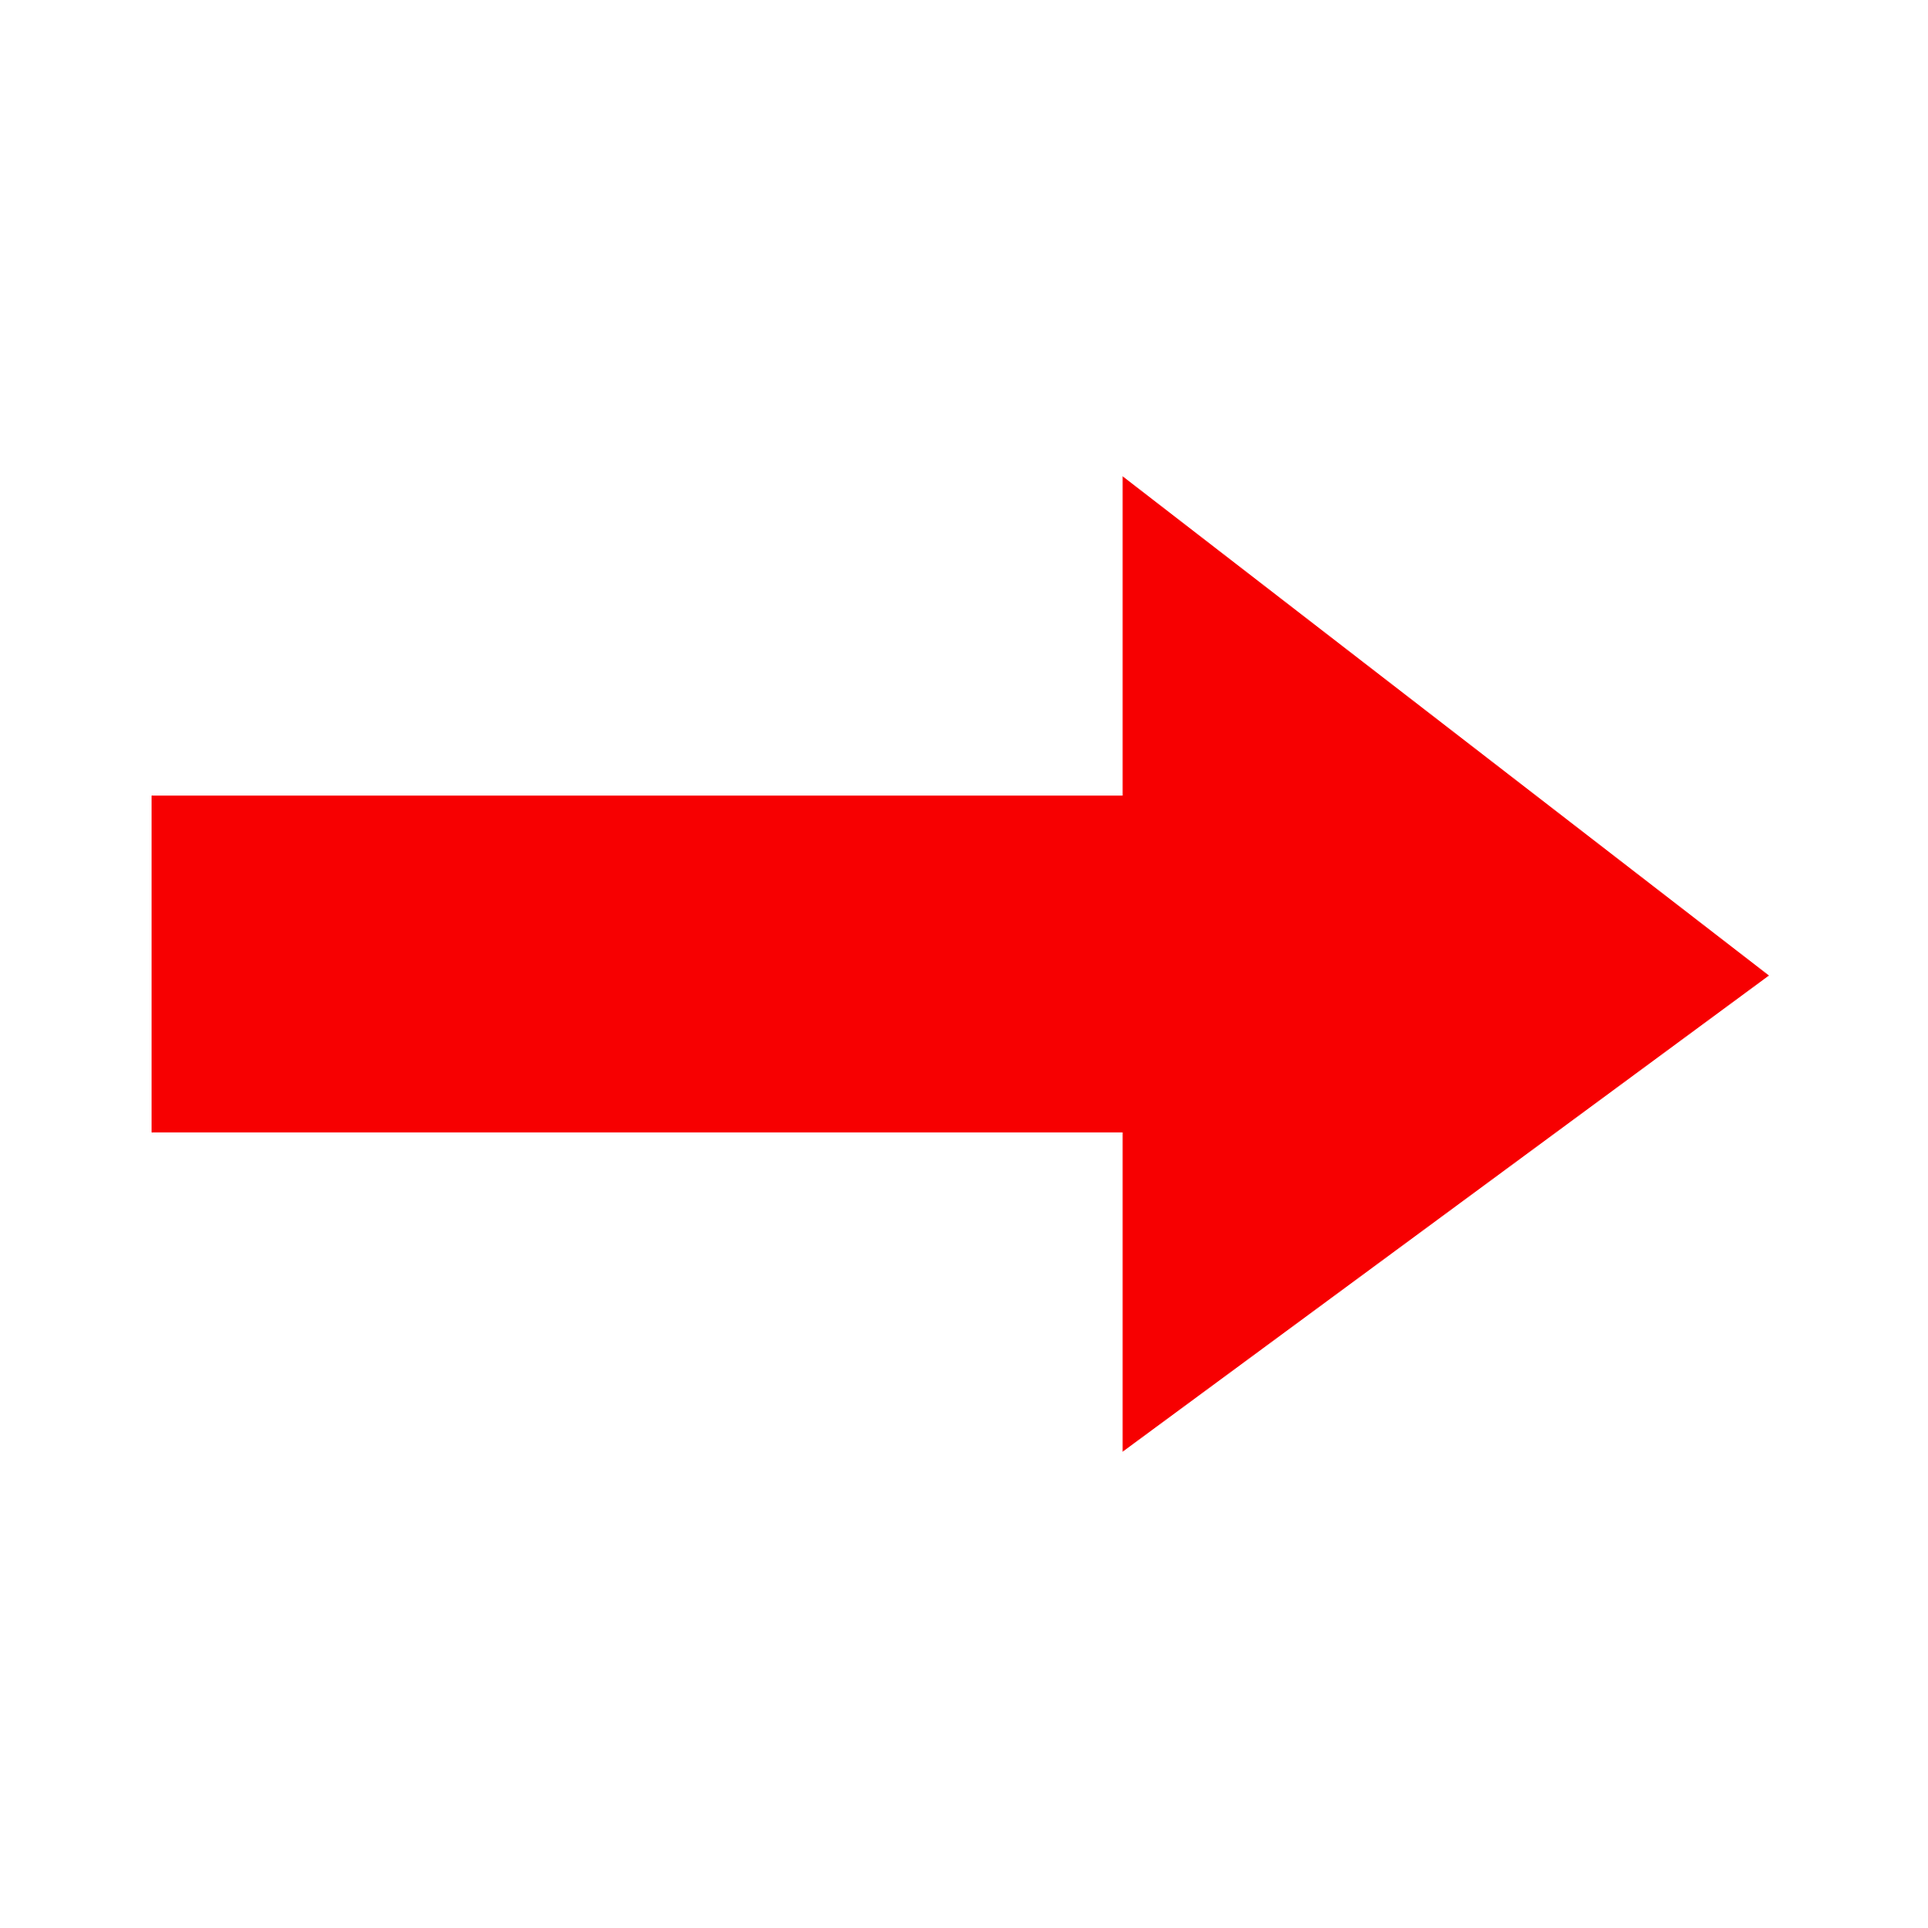
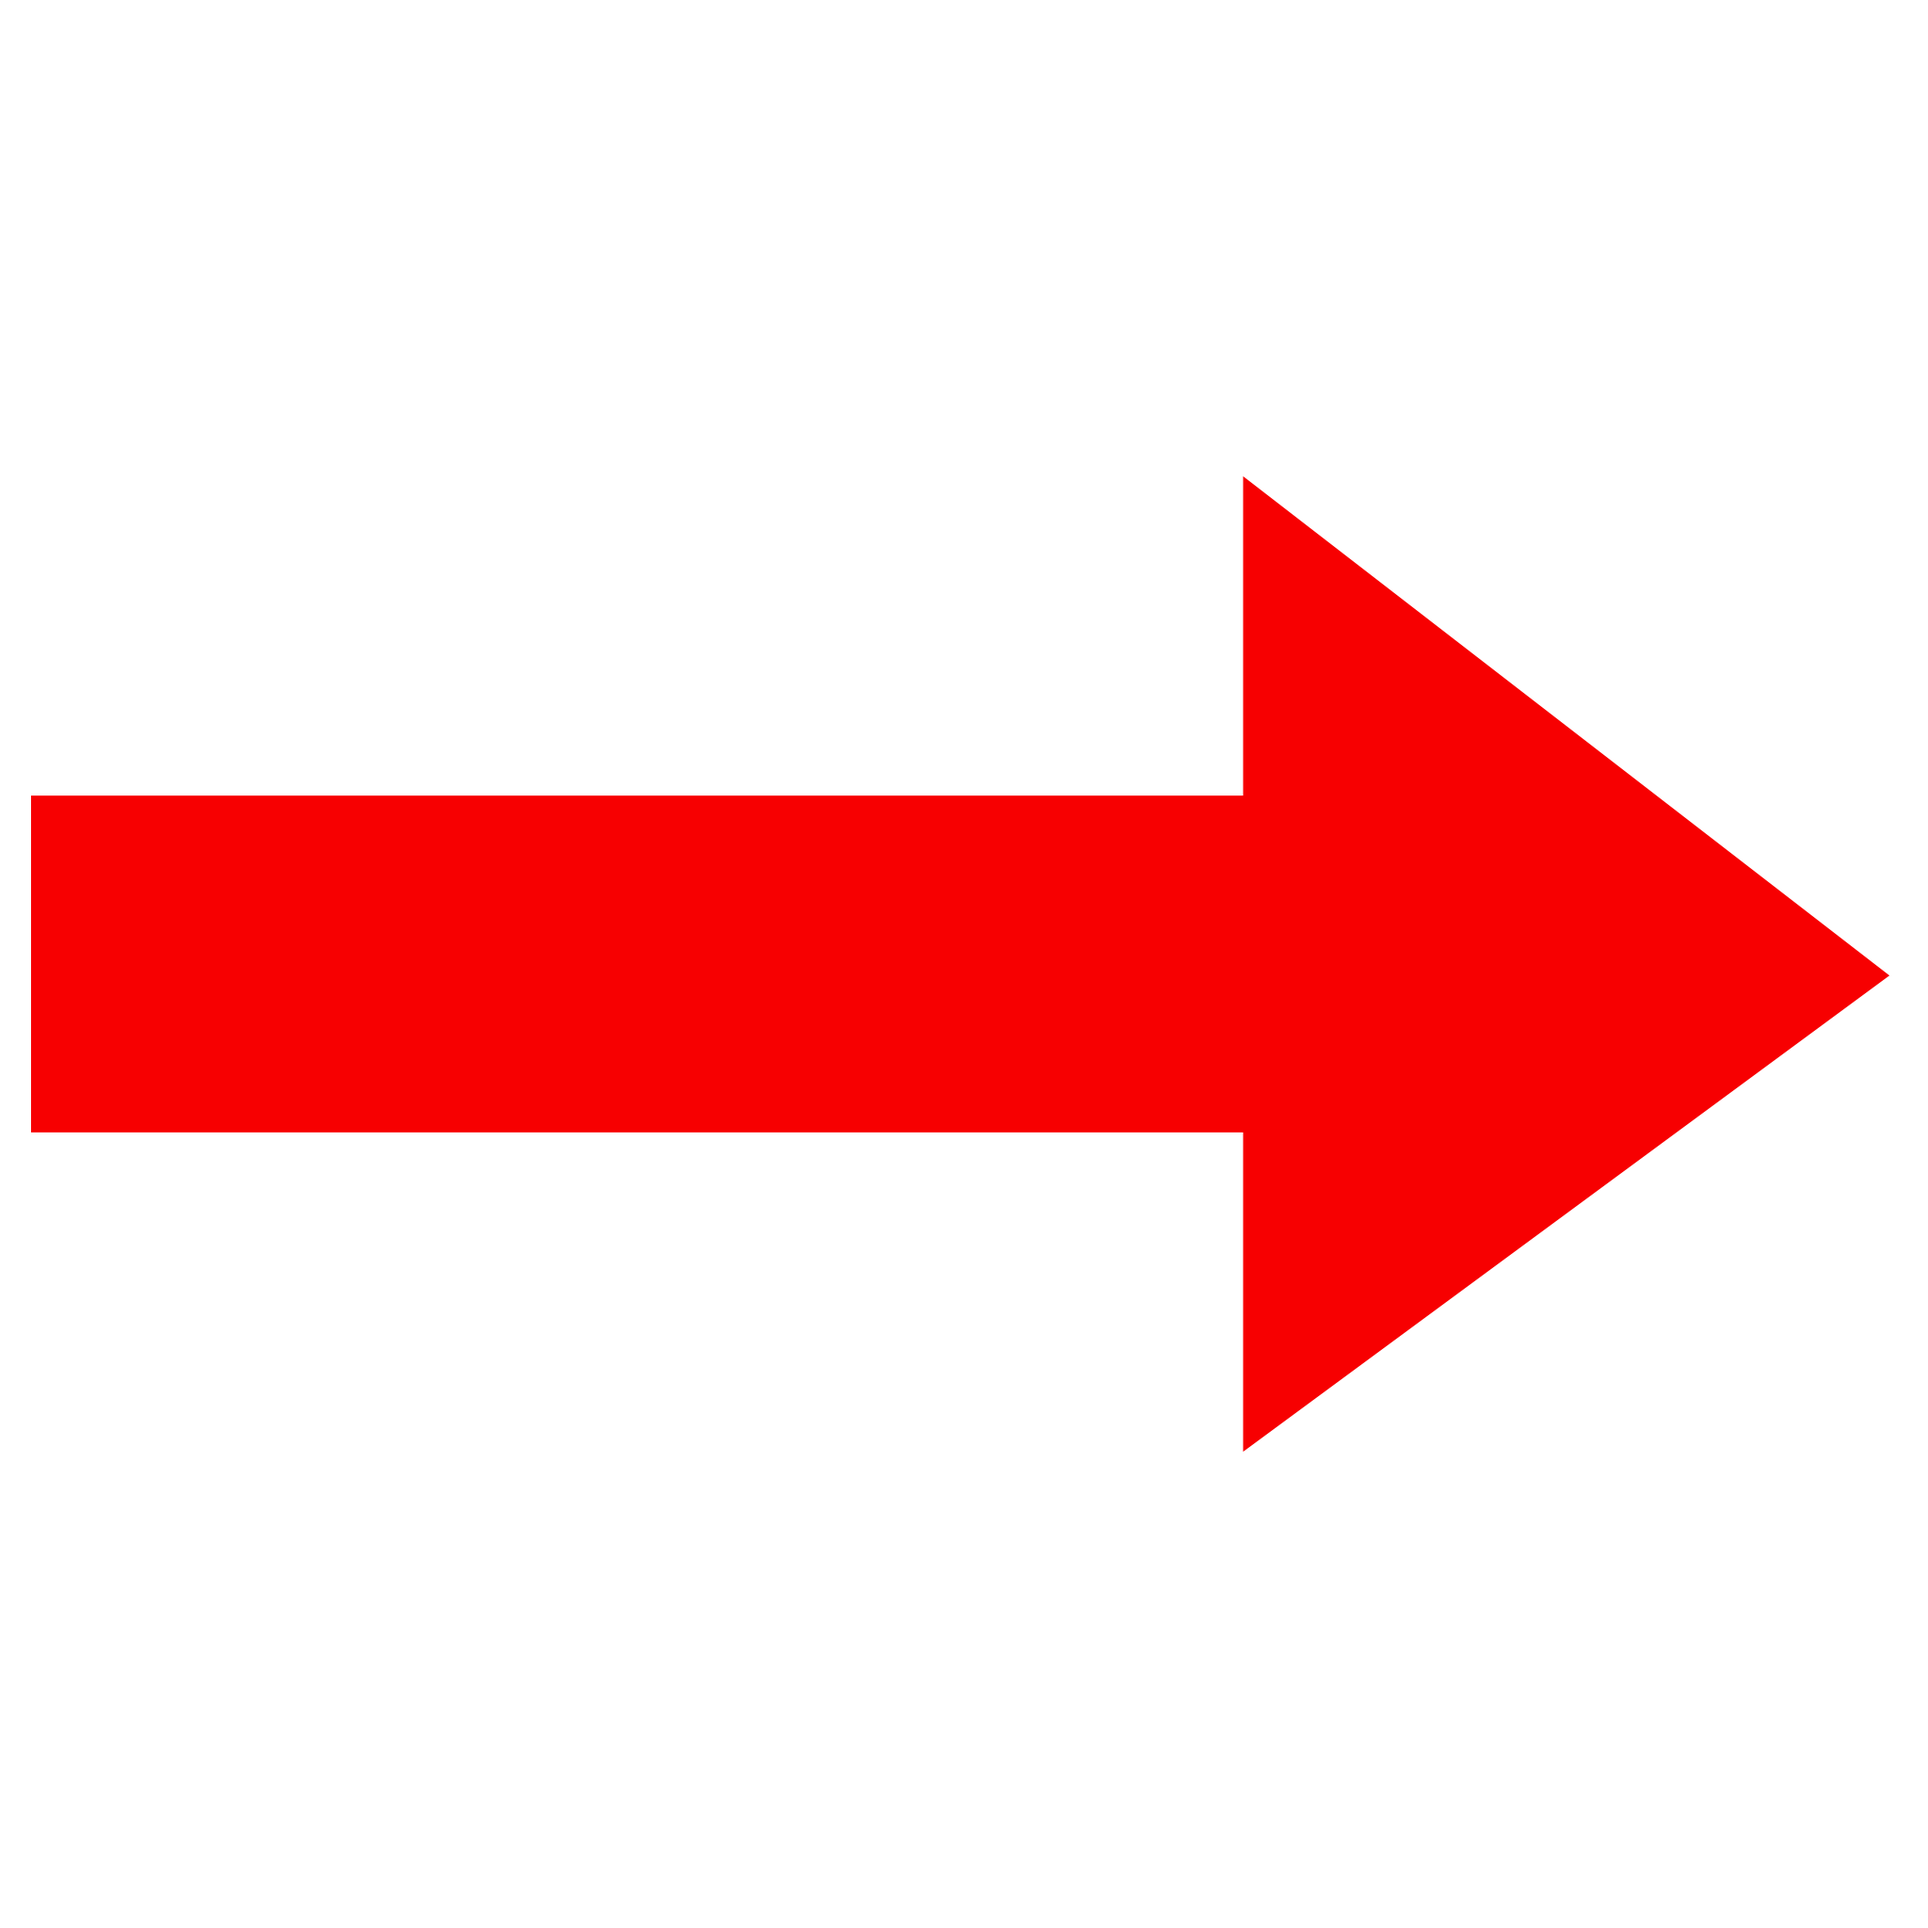
bug fixes, header and arrow changes

Changed region(s): [[0.5625, 0.25, 0.9688, 0.75], [0.0, 0.4062, 0.0938, 0.5938]]

diff --git a/index.html b/index.html
@@ -18,10 +18,12 @@
       </div>
       <div class="nickname">
         <div class="name">Insane Marketing</div>
-        <div class="bot-label">digital agency</div>
-        <div class="typing-wrapper hidden">
-          <div class="lds-facebook"><div></div><div></div><div></div></div>
-          <div class="typing">печатает</div>
+        <div class="bot-wrapper">
+          <div class="bot-label">digital agency</div>
+          <div class="typing-wrapper hidden">
+            <div class="lds-facebook"><div></div><div></div><div></div></div>
+            <div class="typing">печатает</div>
+          </div>
         </div>
       </div>
       <div class="phone-number"><a href="tel:098493389">0984933895</a></div>
@@ -79,7 +81,7 @@
         <label for="promotion-name">Имя</label>
         <input type="text" name="promotion-name" id="promotion-name" required>
         <label for="promotion-address">Номер телефона/ссылка на соц.сеть</label>
-        <input type="text" name="promotion-address" id="promotion-address" required>
+        <input type="text" name="promotion-address" id="promotion-address" value="+380" required>
         <label for="promotion-message">Сообщение (необязательно)</label>
         <textarea name="promotion-message" rows="3" id="promotion-name"></textarea>
         <input type="submit" value="Отправить" id="promotion-submit">

diff --git a/resources/styles/index.css b/resources/styles/index.css
@@ -56,6 +56,7 @@ header {
 .name {
   padding-top: 12px;
   font-size: 20px;
+  line-height: 23px;
   font-weight: bold;
   box-sizing: border-box;
 }
@@ -114,19 +115,19 @@ header {
   /* box-shadow: -2px 1px 3px 0px rgba(60, 75, 87, 0.27); */
   box-shadow: -1px 1px 0px 0px #dfe5ec;
   z-index: 1;
-  animation: fade-in 0.2s;
-  -o-animation: fade-in 0.2s;
-  -moz-animation: fade-in 0.2s;
-  -webkit-animation: fade-in 0.2s;
+  animation: fade-in 0.25s;
+  -o-animation: fade-in 0.25s;
+  -moz-animation: fade-in 0.25s;
+  -webkit-animation: fade-in 0.25s;
 }
 .menu-dropdown-hidden {
   display: none;
   opacity: 0;
   max-height: 0;
-  animation: fade-out 0.2s;
-  -o-animation: fade-out 0.2s;
-  -moz-animation: fade-out 0.2s;
-  -webkit-animation: fade-out 0.2s;
+  animation: fade-out 0.25s;
+  -o-animation: fade-out 0.25s;
+  -moz-animation: fade-out 0.25s;
+  -webkit-animation: fade-out 0.25s;
 }
 @keyframes fade-in {
   0% { 
@@ -554,8 +555,9 @@ footer {
   position: absolute;
   bottom: 40px;
   right: 40px;
-  padding-bottom: 30%;
-  width: 30%;
+  padding-bottom: 25%;
+  width: 25%;
+  opacity: 0.75;
   background-image: url('../images/red-arrow.png');
   background-size: 100% 100%;
   background-repeat: no-repeat;
@@ -584,6 +586,7 @@ footer {
 @media (max-width: 767px) {
   .name {
     font-size: 18px;
+    line-height: 21px;
   }
   .bot-label, .typing-wrapper {
     margin-top: 6px;

diff --git a/resources/scripts/app.js b/resources/scripts/app.js
@@ -315,6 +315,7 @@ function assignDropdown() {
 }
 
 $(document).ready(function(){
+  cancelTimeouts(); // To prevent bug after reloading page
   document.querySelector('#phone').value = '';
   document.querySelector('#phone').disabled = true;
   document.querySelector('.menu').onclick = toggleDropdown;
